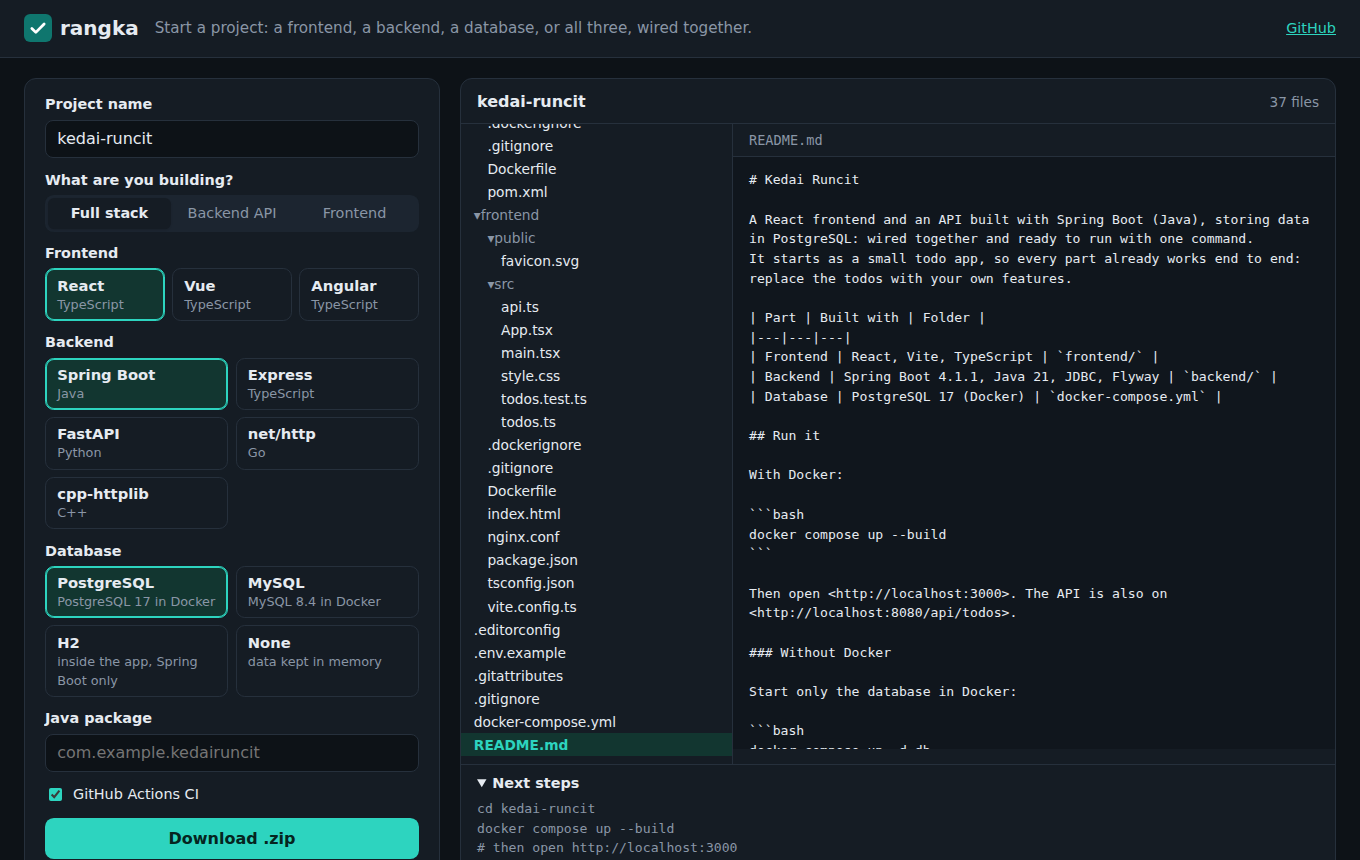
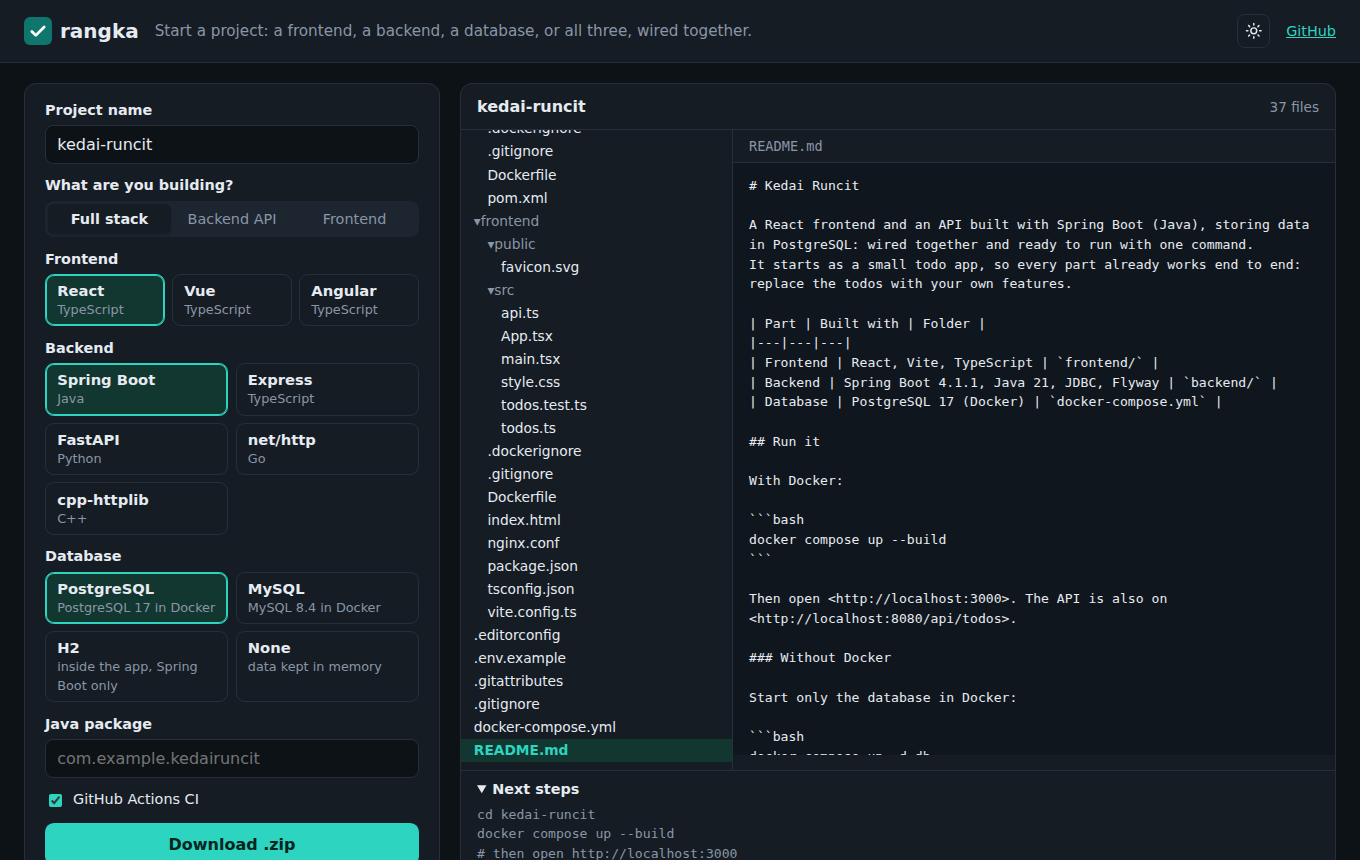
Add a light and dark mode button to the web page

diff --git a/web/style.css b/web/style.css
@@ -10,12 +10,14 @@
   --accent-text: #ffffff;
   --danger: #b4410f;
   --code-bg: #f8fafb;
-  color-scheme: light dark;
+  color-scheme: light;
   font-family: system-ui, -apple-system, "Segoe UI", Roboto, sans-serif;
 }
 
+/* dark: follows the system unless the toggle chose light; or chosen with the toggle */
 @media (prefers-color-scheme: dark) {
-  :root {
+  :root:not([data-theme="light"]) {
+    color-scheme: dark;
     --bg: #0d1217;
     --panel: #151c24;
     --text: #e6ebf1;
@@ -28,6 +30,21 @@
     --danger: #fb923c;
     --code-bg: #10161d;
   }
+}
+
+:root[data-theme="dark"] {
+  color-scheme: dark;
+  --bg: #0d1217;
+  --panel: #151c24;
+  --text: #e6ebf1;
+  --muted: #8a96a6;
+  --line: #26303c;
+  --soft: #1c2530;
+  --accent: #2dd4bf;
+  --accent-soft: #123630;
+  --accent-text: #052520;
+  --danger: #fb923c;
+  --code-bg: #10161d;
 }
 
 * {
@@ -72,8 +89,47 @@ a {
   flex: 1;
 }
 
-.gh {
+.theme {
   margin-left: auto;
+  display: grid;
+  place-items: center;
+  width: 2.1rem;
+  height: 2.1rem;
+  border: 1px solid var(--line);
+  border-radius: 0.5rem;
+  background: var(--panel);
+  color: var(--text);
+}
+
+.theme:hover {
+  background: var(--soft);
+}
+
+.theme svg {
+  width: 1.1rem;
+  height: 1.1rem;
+}
+
+/* show the sun in dark mode (switch to light) and the moon in light mode (switch to dark) */
+.theme .sun,
+:root[data-theme="dark"] .theme .moon {
+  display: none;
+}
+
+:root[data-theme="dark"] .theme .sun {
+  display: block;
+}
+
+@media (prefers-color-scheme: dark) {
+  :root:not([data-theme="light"]) .theme .sun {
+    display: block;
+  }
+  :root:not([data-theme="light"]) .theme .moon {
+    display: none;
+  }
+}
+
+.gh {
   font-size: 0.9rem;
 }
 

diff --git a/web/index.html b/web/index.html
@@ -7,12 +7,23 @@
     <meta name="description" content="Start a project with a frontend, a backend, a database, or all three, already wired together. Runs in your browser." />
     <link rel="icon" type="image/svg+xml" href="favicon.svg" />
     <link rel="stylesheet" href="style.css" />
+    <script>
+      // apply a theme chosen earlier before the page paints, so it doesn't flash
+      try {
+        const theme = localStorage.getItem("rangka.theme");
+        if (theme === "light" || theme === "dark") document.documentElement.dataset.theme = theme;
+      } catch {}
+    </script>
     <script type="module" src="app.js"></script>
   </head>
   <body>
     <header class="top">
       <a class="brand" href="./"><img src="favicon.svg" alt="" width="28" height="28" /> rangka</a>
       <span class="tagline">Start a project: a frontend, a backend, a database, or all three, wired together.</span>
+      <button type="button" class="theme" id="theme" aria-label="Switch to dark mode" title="Switch to dark mode">
+        <svg class="moon" viewBox="0 0 24 24" fill="none" stroke="currentColor" stroke-width="2" stroke-linecap="round" stroke-linejoin="round" aria-hidden="true"><path d="M21 12.8A9 9 0 1 1 11.2 3a7 7 0 0 0 9.8 9.8z"/></svg>
+        <svg class="sun" viewBox="0 0 24 24" fill="none" stroke="currentColor" stroke-width="2" stroke-linecap="round" stroke-linejoin="round" aria-hidden="true"><circle cx="12" cy="12" r="4"/><path d="M12 2v2M12 20v2M4.9 4.9l1.4 1.4M17.7 17.7l1.4 1.4M2 12h2M20 12h2M4.9 19.1l1.4-1.4M17.7 6.3l1.4-1.4"/></svg>
+      </button>
       <a class="gh" href="https://github.com/amirizalrahmat0799/rangka">GitHub</a>
     </header>
 

diff --git a/web/app.js b/web/app.js
@@ -160,6 +160,30 @@ function renderTree(node, prefix, onSelect) {
   return ul;
 }
 
+// ---- light and dark mode ------------------------------------------------------------------------------
+
+const systemDark = window.matchMedia("(prefers-color-scheme: dark)");
+const isDark = () => (document.documentElement.dataset.theme ?? (systemDark.matches ? "dark" : "light")) === "dark";
+
+function labelThemeButton() {
+  const label = isDark() ? "Switch to light mode" : "Switch to dark mode";
+  $("theme").setAttribute("aria-label", label);
+  $("theme").title = label;
+}
+
+$("theme").addEventListener("click", () => {
+  const theme = isDark() ? "light" : "dark";
+  document.documentElement.dataset.theme = theme;
+  try {
+    localStorage.setItem("rangka.theme", theme);
+  } catch {
+    // private mode or blocked storage: the choice just won't be remembered
+  }
+  labelThemeButton();
+});
+systemDark.addEventListener("change", labelThemeButton);
+labelThemeButton();
+
 // ---- wiring --------------------------------------------------------------------------------------------
 
 const core = await loadCore();
